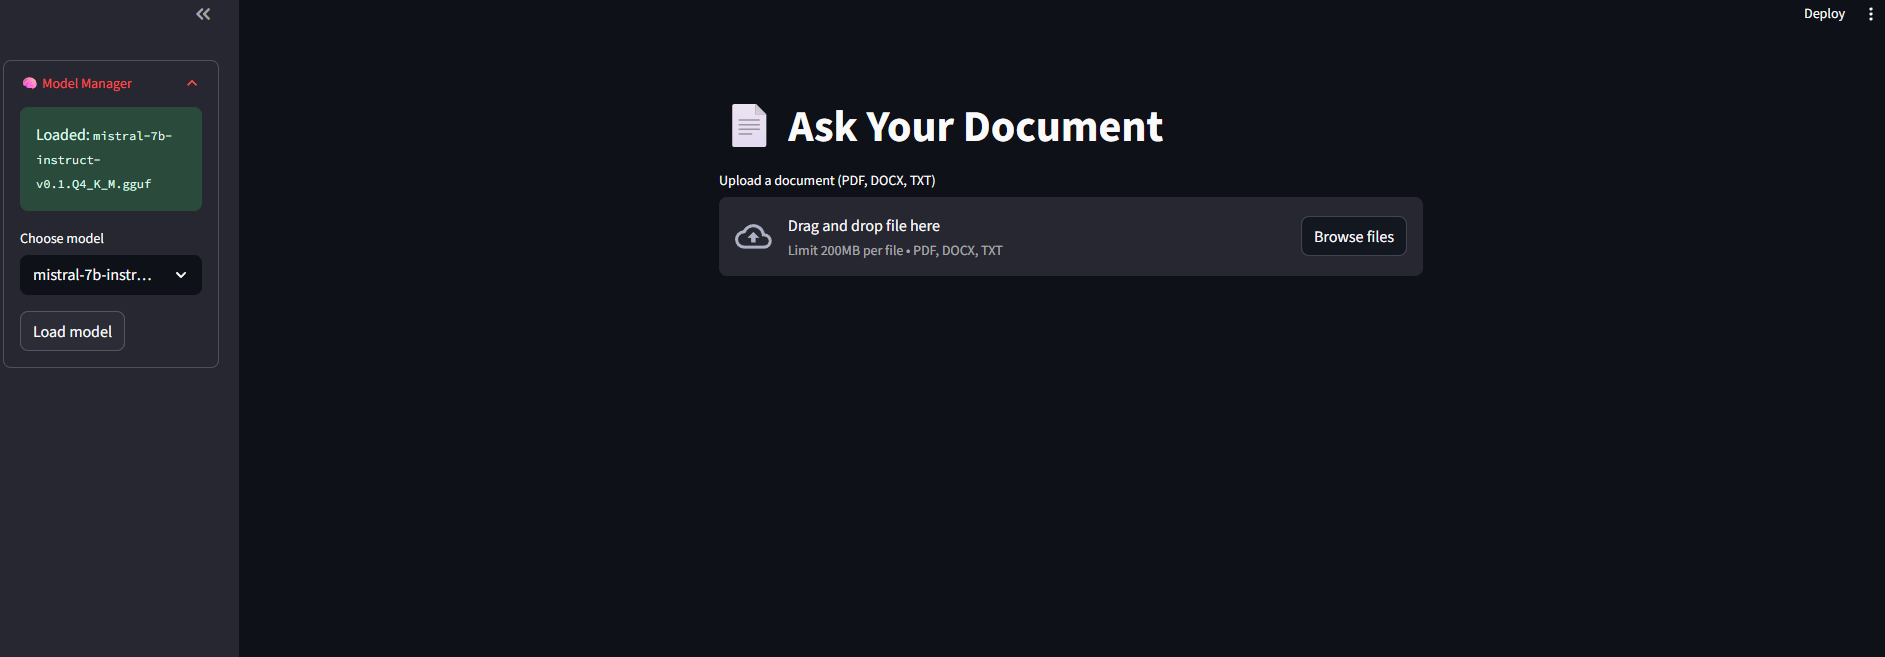
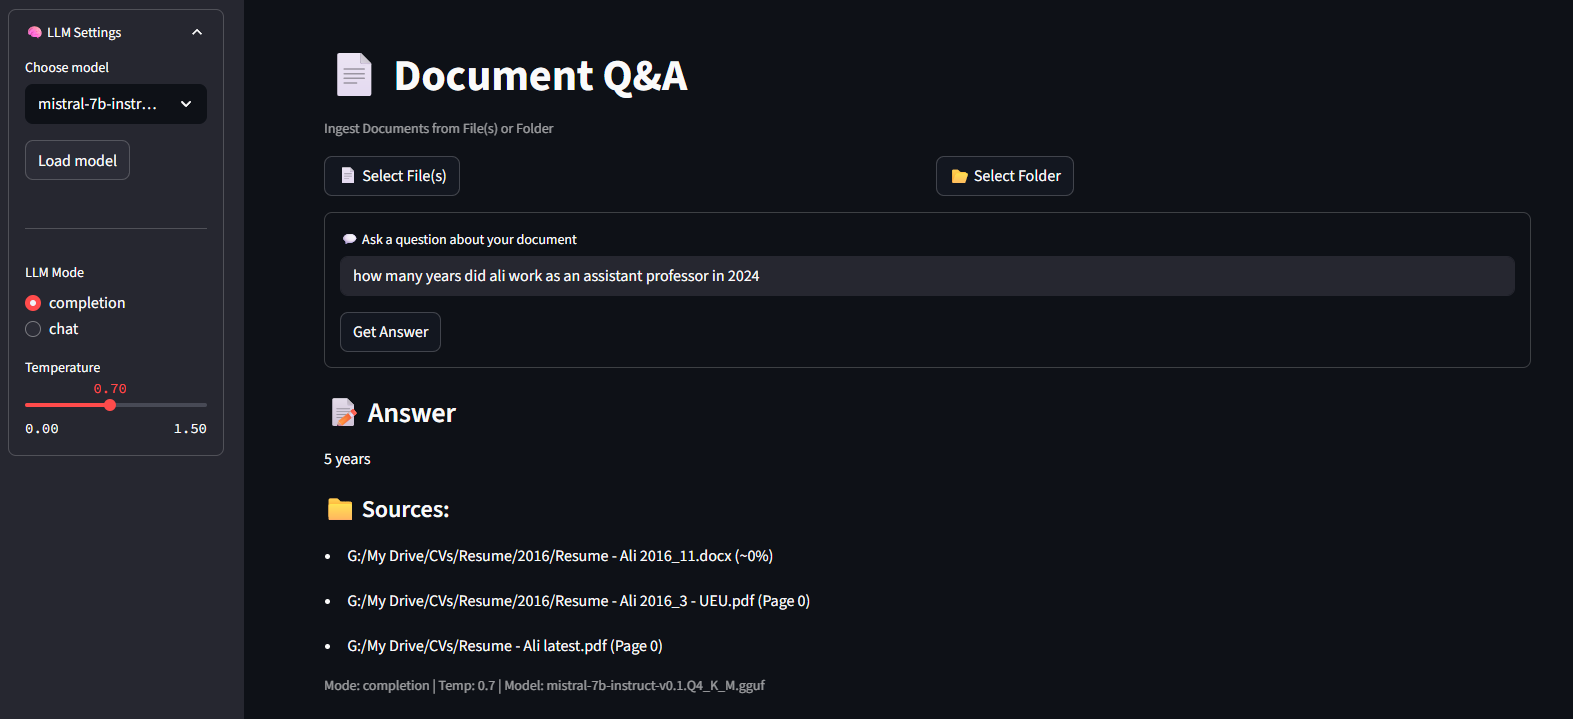
docs: update README with additional screenshots

diff --git a/README.md b/README.md
@@ -4,6 +4,8 @@ This project is a **fully local, privacy-first document Q&A system**, designed t
 
 The system prioritizes **modularity, observability, and full offline support**, making it suitable for personal knowledge bases, secure enterprise settings, or research workflows — all without sending data to the cloud.
 
+![App Screenshot](assets/screenshot_ui.png)
+
 ---
 
 ## 🔭 Vision
@@ -123,6 +125,8 @@ The system includes a **dedicated LLM-based query rewriter** that improves searc
 - ✅ Detecting vague or ambiguous questions (e.g., “What about that contract?”)
 - ✅ Asking for clarification when context is missing (e.g., “Who is ‘he’?”)
 - ✅ Rewriting clean questions into compressed, keyword-rich search phrases
+
+![App Screenshot](assets/rewriter.png)
 
 ### 🔧 How it works:
 
